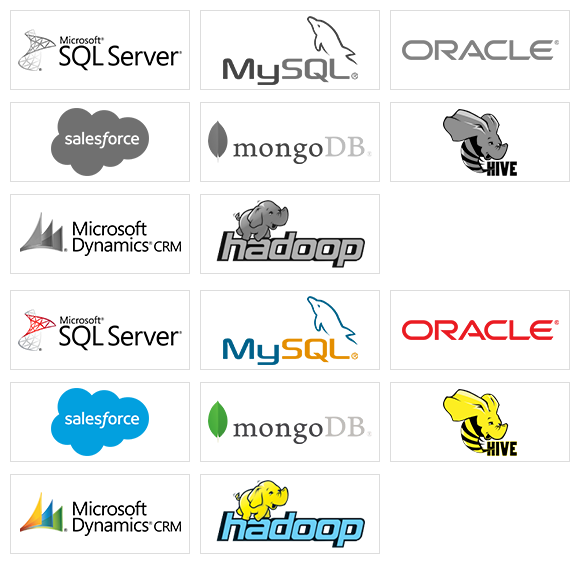
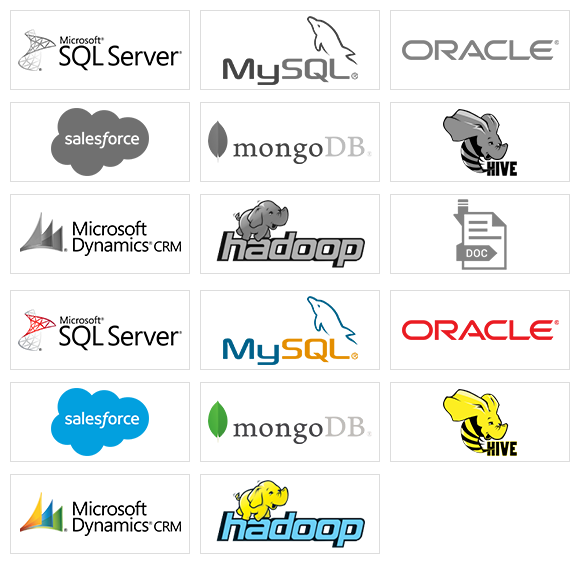
data upload and preview page little modification

Changed region(s): [[0.7732, 0.3367, 0.8969, 0.4592]]

diff --git a/static/react/src/assets/data_preview.html b/static/react/src/assets/data_preview.html
@@ -114,6 +114,7 @@
                                     <th>Order Value</th>
                                     <th>Discount</th>
                                     <th>Ship Mode</th>
+
                                  </tr>
                               </thead>
                               <tbody class="no-border-x">
@@ -155,7 +156,7 @@
                      </div>
                   </div>
                   <div class="col-md-3">
-                     <div class="panel panel-full-alt1 cst_panel">
+                     <div class="panel panel-primary cst_panel">
                         <div class="panel-heading">
                            <div class="tools">
                               <a href="#">
@@ -191,7 +192,7 @@
                            </table>
                         </div>
                      </div>
-                     <div class="panel panel-alt2 cst_panel">
+                     <div class="panel panel-primary cst_panel">
                         <div class="panel-heading">
                            <div class="tools"><span class="icon s7-upload"></span><span class="icon s7-edit"></span><span class="icon s7-close"></span></div>
                            <span class="title">Visualizations</span>
@@ -200,7 +201,7 @@
                            <img src="../assets/images/data_preview_graph.png" class="img-responsive" />
                         </div>
                      </div>
-                     <div class="panel panel-alt4 cst_panel">
+                     <div class="panel panel-primary cst_panel">
                         <div class="panel-heading">
                            <div class="tools"><span class="icon s7-upload"></span><span class="icon s7-edit"></span><span class="icon s7-close"></span></div>
                            <span class="title">Subsettings</span>

diff --git a/static/react/src/assets/data.html b/static/react/src/assets/data.html
@@ -424,7 +424,12 @@
                      </ul>
                      <div class="tab-content">
                         <div id="dat_upload1" class="tab-pane active cont fade in">
-                           <h3><i class="fa fa-file-text-o fa-2x"></i> File Upload</h3>
+                           <h3>
+						   File Upload
+						   <div class="pull-right">
+								<div class="db_images db_file_upload"></div>
+							</div>
+						   </h3>
                           
 						  <input id="thefiles" type="file" name="files" accept=".jpg, .png, image/jpeg, image/png" multiple>
 						  

diff --git a/static/react/src/assets/css/style.css b/static/react/src/assets/css/style.css
@@ -15531,6 +15531,7 @@ progress:after { content: '%'; }
 .modal-body .tab-content {  margin-bottom: inherit; margin-top: 0; }
 .modal-body .tab-content h3 { margin-top:0; }
 .db_images { width: 190px; height: 92px; background: url(../../assets/images/db_images.png) no-repeat 0 0;}
+.db_images.db_file_upload { background-position: -380px -184px}
 .db_images.db_sql_server { background-position: 0 0}
 .db_images.db_my_sql { background-position: -196px 0  }
 .db_images.db_oracle { background-position: -380px 0}
